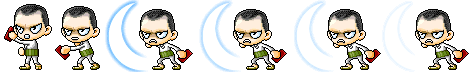
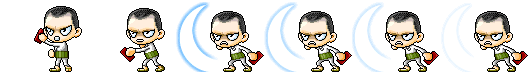
add player enemy collision

diff --git a/js/classes.js b/js/classes.js
@@ -340,6 +340,10 @@ class Player {
         this.facing = -1 // 1 = right, -1 = left
         this.jumping = false // calculated in update() function
 
+        // handle gettingHit
+        this.gettingHit = false
+        this.hitCooldown = 0
+
         // stats
         this.speed = 3
         this.jumpHeight = 10
@@ -463,6 +467,15 @@ class Player {
                 progressBar.style.background = "#9c84b5" 
                 clearTimeout(resetBar)
             }
+        }
+    }
+
+    getHit(enemyFacing,damage){
+        this.gettingHit = true
+        if(enemyFacing === 1){ // hit from right, move left
+            this.velocity.x = damage
+        } else if(enemyFacing === -1){
+            this.velocity.x = -damage
         }
     }
 
@@ -612,27 +625,42 @@ class Player {
             this.velocity.y += this.gravity
         }
 
-        // Handle Player Left/Right Movement
-        if (keys.a.pressed && this.lastKey === 'a') {
-            if(this.position.x<= 0){
-                this.velocity.x = 0
-            }else{
-                this.velocity.x = -this.speed
-            }
-            this.switchSprite('move')
-            this.facing = -1
+        if(this.gettingHit === true && this.hitCooldown<20){
+            this.hitCooldown += 1
+            console.log(this.hitCooldown)
+        } else if (this.gettingHit === true && this.hitCooldown>=20){
+            this.gettingHit = false
+            this.hitCooldown = 0
         }
-        else if (keys.d.pressed && this.lastKey === 'd') {
-            if((this.position.x + this.width) >= canvas.width){
-                this.velocity.x = 0
-            } else{
-                this.velocity.x = this.speed
+
+        // Handle Player Left/Right Movement
+        if(this.gettingHit === false){
+            if (keys.a.pressed && this.lastKey === 'a') {
+                if(this.position.x<= 0){
+                    this.velocity.x = 0
+                }else{
+                    this.velocity.x = -this.speed
+                }
+                this.switchSprite('move')
+                this.facing = -1
             }
-            this.switchSprite('move')
-            this.facing = 1
-        } else {
-            this.switchSprite('idle')
-            this.velocity.x = 0
+            else if (keys.d.pressed && this.lastKey === 'd') {
+                if((this.position.x + this.width) >= canvas.width){
+                    this.velocity.x = 0
+                } 
+                else {
+                    this.velocity.x = this.speed
+                }
+                this.switchSprite('move')
+                this.facing = 1
+            } else {
+                this.switchSprite('idle')
+                this.velocity.x = 0
+            }    
+        } else{
+                if(this.position.x<= 0 || (this.position.x + this.width) >= canvas.width){
+                    this.velocity.x = 0
+                }
         }
 
         // Handle Player Jump Sprite Updating
@@ -817,6 +845,8 @@ class Enemy{
         this.image.src = imageSrc
         this.scale = scale
         this.facing = -1 // 1 = right, -1 = left
+        
+        this.isAttacking = false
 
         // stats
         this.speed = 5
@@ -887,7 +917,9 @@ class Enemy{
     }
 
     movementDecision(num){
-        if(num===0){
+        if(this.isAttacking===true){ // do not make new movements if enemy is currently attacking
+            return
+        } else if(num===0){
             this.switchSprite('idle')
             this.velocity.x = 0
         } else if(num===1){
@@ -907,10 +939,17 @@ class Enemy{
         }
     }
 
+    attack(){
+        this.switchSprite('attack')
+        this.isAttacking = true
+    }
+
     switchSprite(sprite) {
         let idleFramesHold = 40
         let walkFramesHold = 18
         let jumpFramesHold = 30
+        let attackFramesHold = 12
+
         switch (sprite) {
             case 'idle':
                 if(this.facing === -1){
@@ -948,23 +987,32 @@ class Enemy{
                     }
                 }
                 break
-                case 'jump':
-                    if (this.facing === -1) {
-                        if (this.image != this.sprites.jump.image) {
-                            this.framesHold = jumpFramesHold
-                            this.image = this.sprites.jump.image
-                            this.framesMax = this.sprites.jump.framesMax
-                            this.framesCurrent = 0
-                        }
-                    } else if (this.facing === 1) {
-                        if (this.image != this.sprites.jumpRight.image) {
-                            this.framesHold = jumpFramesHold
-                            this.image = this.sprites.jumpRight.image
-                            this.framesMax = this.sprites.jumpRight.framesMax
-                            this.framesCurrent = 0
-                        }
+            case 'jump':
+                if (this.facing === -1) {
+                    if (this.image != this.sprites.jump.image) {
+                        this.framesHold = jumpFramesHold
+                        this.image = this.sprites.jump.image
+                        this.framesMax = this.sprites.jump.framesMax
+                        this.framesCurrent = 0
                     }
-                    break    
+                } else if (this.facing === 1) {
+                    if (this.image != this.sprites.jumpRight.image) {
+                        this.framesHold = jumpFramesHold
+                        this.image = this.sprites.jumpRight.image
+                        this.framesMax = this.sprites.jumpRight.framesMax
+                        this.framesCurrent = 0
+                    }
+                }
+                break
+            case 'attack':
+                this.framesHold = attackFramesHold
+                if (this.facing === -1) {
+                    this.image = this.sprites.attack.image
+                } else if (this.facing === 1) {
+                    this.image = this.sprites.attackRight.image
+                }
+                this.framesMax = this.sprites.attack.framesMax
+                this.framesCurrent = 0
         }
     }
 
@@ -983,8 +1031,18 @@ class Enemy{
             this.facing = -1
             this.switchSprite('walk')
         }
-        this.position.x += this.velocity.x
+
+        // if this is attacking and in the attack sprite, finish attack sprite and set isAttacking to false
+        if(this.isAttacking=== true && (this.image === this.sprites.attack.image || this.image === this.sprites.attackRight.image)){
+            if(this.framesCurrent >= this.sprites.attack.framesMax-1){
+                this.isAttacking = false
+                this.movementDecision(0)
+            }
+        } else { // only move X axis if isAttacking === false
+            this.position.x += this.velocity.x
+        }
         this.position.y += this.velocity.y
+        console.log("attacking: " + this.isAttacking)
 
         // Reset sprites after Jump
         if((this.image === this.sprites.jump.image || this.image === this.sprites.jumpRight.image)

diff --git a/js/interactions.js b/js/interactions.js
@@ -114,3 +114,18 @@ function handleFoodPlayerInteractions(){
                 
             }
 }
+
+// Player & Enemy interaction logic
+function handleEnemyPlayerInteractions(){
+    for(const i in enemies){
+        thisEnemy = enemies[i]
+        if(spriteCollision({
+            rectangle1: thisEnemy,
+            rectangle2: player
+        }) && thisEnemy.isAttacking === false){
+            console.log("attack")
+            thisEnemy.attack()
+            player.getHit(thisEnemy.facing,10)
+        }
+    }
+}

diff --git a/js/npcGenerator.js b/js/npcGenerator.js
@@ -107,6 +107,14 @@ function genGrunt(x,y){
             jumpRight:{
                 imageSrc: './img/badGuy1/jumpRight.png',
                 framesMax: 1
+            },
+            attack:{
+                imageSrc: './img/badGuy1/attack.png',
+                framesMax: 6
+            },
+            attackRight:{
+                imageSrc: './img/badGuy1/attackRight.png',
+                framesMax: 6
             }
         }
     })

diff --git a/index.js b/index.js
@@ -63,7 +63,7 @@ const coins = []
 const thornBushes = []
 let coinCointer = 0
 
-genThornBush(600, 620)
+//genThornBush(600, 620)
 
 // declaring keys state 
 const keys = {
@@ -143,6 +143,8 @@ function animate(){
         // Check if Player collides with Coins
         // Make coin stick to Player upon pickup 
         handleCoinPlayerInteractions() // defined in utils.js
+
+        handleEnemyPlayerInteractions()
     }
 }
 
